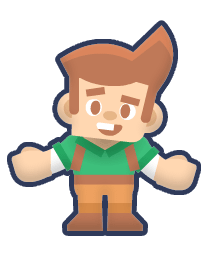
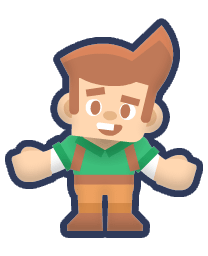
player selection and bomb selection screens graphics fixed

diff --git a/src/scenes/PlayerHonkBombSelectionScene.ts b/src/scenes/PlayerHonkBombSelectionScene.ts
@@ -50,8 +50,8 @@ export class PlayerHonkBombSelectionScene extends Container implements IScene {
 		this.sceneContainer.addChild(title);
 
 		const player_1_sprite: GameObjectSprite = new GameObjectSprite(Texture.from("cracker_1"));
-		player_1_sprite.width = 329 / 2;
-		player_1_sprite.height = 329 / 2;
+		player_1_sprite.width = 300 / 2;
+		player_1_sprite.height = 300 / 2;
 		player_1_sprite.x = 0;
 		player_1_sprite.y = 0;
 		const player_1_button = new Button(player_1_sprite, () => {
@@ -60,12 +60,12 @@ export class PlayerHonkBombSelectionScene extends Container implements IScene {
 			player_1_sprite.filters = null;
 			Constants.SELECTED_HONK_BUSTER_TEMPLATE = 0;
 		});
-		player_1_button.setPosition(this.sceneContainer.width / 2 - player_1_sprite.width, this.sceneContainer.height / 2 - player_1_sprite.height / 2);
+		player_1_button.setPosition(this.sceneContainer.width / 2 - player_1_sprite.width, this.sceneContainer.height / 2 - player_1_sprite.height / 2 + 10);
 		this.sceneContainer.addChild(player_1_button);
 
 		const player_2_sprite: GameObjectSprite = new GameObjectSprite(Texture.from("trash_1"));
-		player_2_sprite.width = 329 / 2;
-		player_2_sprite.height = 329 / 2;
+		player_2_sprite.width = 300 / 2;
+		player_2_sprite.height = 300 / 2;
 		player_2_sprite.x = 0;
 		player_2_sprite.y = 0;
 		const player_2_button = new Button(player_2_sprite, () => {
@@ -74,7 +74,7 @@ export class PlayerHonkBombSelectionScene extends Container implements IScene {
 			player_2_sprite.filters = null;
 			Constants.SELECTED_HONK_BUSTER_TEMPLATE = 1;
 		});
-		player_2_button.setPosition(this.sceneContainer.width / 2, this.sceneContainer.height / 2 - player_2_sprite.height / 2);
+		player_2_button.setPosition(this.sceneContainer.width / 2, this.sceneContainer.height / 2 - player_2_sprite.height / 2 + 10);
 		this.sceneContainer.addChild(player_2_button);
 
 		const button = new Button(new Graphics().beginFill(0x5FC4F8).lineStyle(4, 0xffffff).drawRoundedRect(0, 0, 250, 50, 10).endFill(), () => {
@@ -86,7 +86,7 @@ export class PlayerHonkBombSelectionScene extends Container implements IScene {
 			else {
 				SoundManager.play(SoundType.PLAYER_HEALTH_LOSS);
 			}
-			
+
 		}, "Select");
 		button.setPosition(this.sceneContainer.width / 2 - button.width / 2, this.sceneContainer.height - button.height * 2);
 		this.sceneContainer.addChild(button);
@@ -115,7 +115,7 @@ export class PlayerHonkBombSelectionScene extends Container implements IScene {
 		else {
 			this.sceneContainer.scale.set(scale);
 			this.sceneContainer.setPosition(SceneManager.width / 2 - this.sceneContainer.width / 2, SceneManager.height / 2 - this.sceneContainer.height / 2);
-		}		
+		}
 	}
 }
 

diff --git a/src/scenes/PlayerCharacterSelectionScene.ts b/src/scenes/PlayerCharacterSelectionScene.ts
@@ -59,7 +59,7 @@ export class PlayerCharacterSelectionScene extends Container implements IScene {
 			player_1_sprite.filters = null;
 			Constants.SELECTED_CHARACTER_TEMPLATE = 0;
 		});
-		player_1_button.setPosition(this.sceneContainer.width / 2 - player_1_sprite.width, this.sceneContainer.height / 2 - player_1_sprite.height / 2);
+		player_1_button.setPosition(this.sceneContainer.width / 2 - player_1_sprite.width, this.sceneContainer.height / 2 - player_1_sprite.height / 2 + 10);
 		this.sceneContainer.addChild(player_1_button);
 
 		const player_2_sprite: GameObjectSprite = new GameObjectSprite(Texture.from("player_2_character"));
@@ -73,7 +73,7 @@ export class PlayerCharacterSelectionScene extends Container implements IScene {
 			player_2_sprite.filters = null;
 			Constants.SELECTED_CHARACTER_TEMPLATE = 1;
 		});
-		player_2_button.setPosition(this.sceneContainer.width / 2, this.sceneContainer.height / 2 - player_2_sprite.height / 2);
+		player_2_button.setPosition(this.sceneContainer.width / 2, this.sceneContainer.height / 2 - player_2_sprite.height / 2 + 10);
 		this.sceneContainer.addChild(player_2_button);
 
 		const button = new Button(new Graphics().beginFill(0x5FC4F8).lineStyle(4, 0xffffff).drawRoundedRect(0, 0, 250, 50, 10).endFill(), () => {
